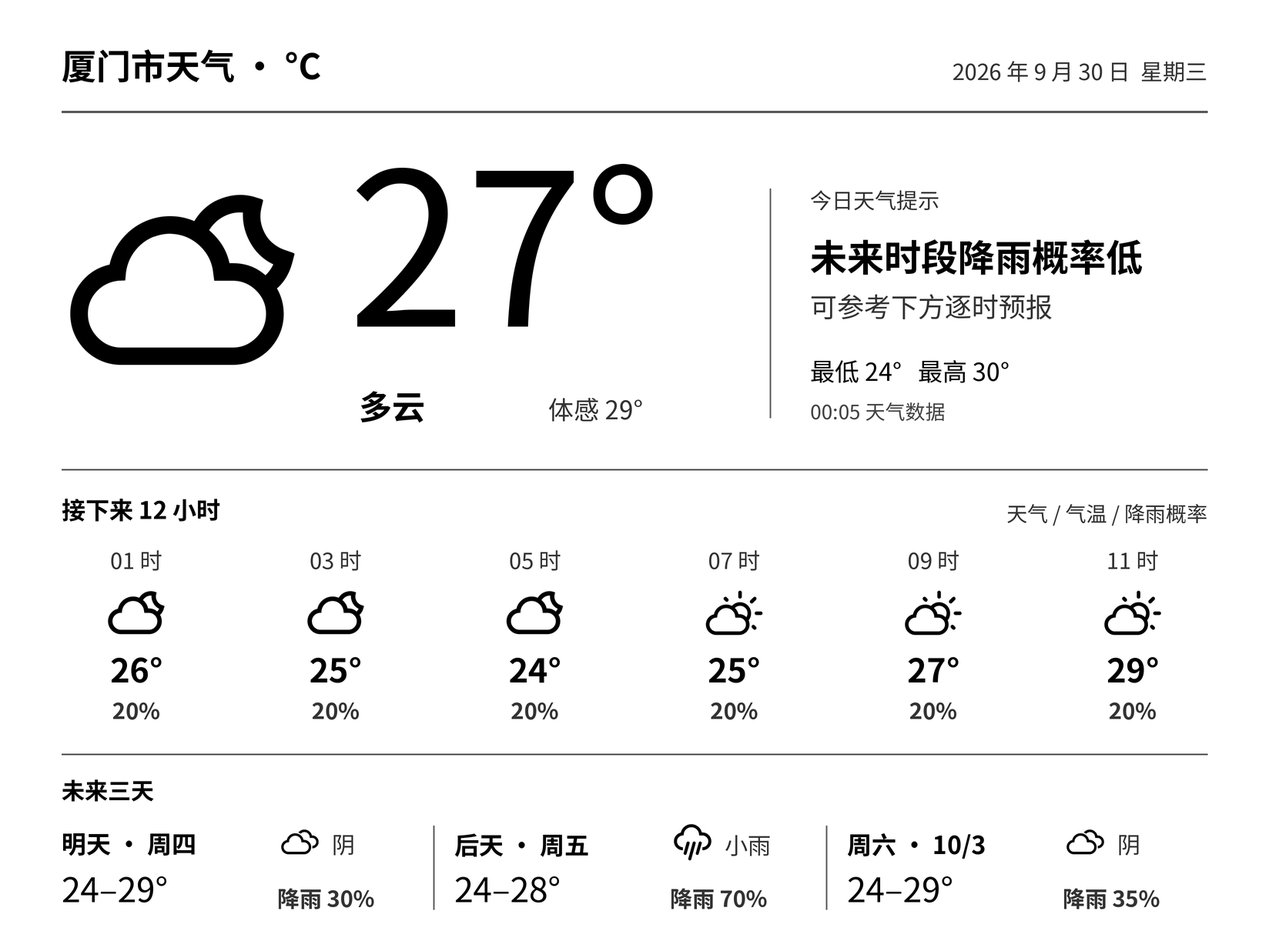
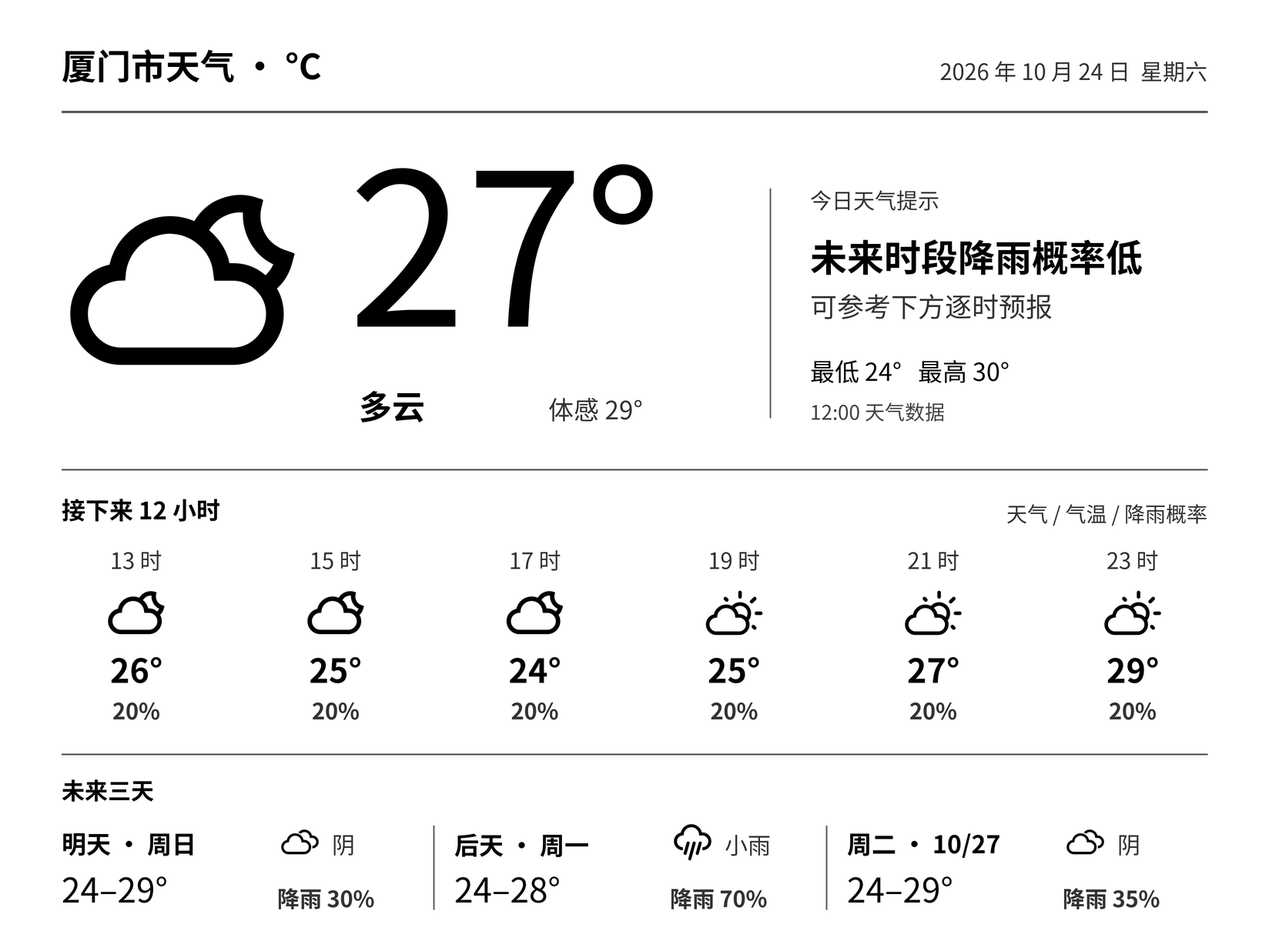
release: publish v0.3.0 with the annual garden and a refreshed gallery
Bump the server to 0.3.0; the plugin and A/B launcher stay at 1.1.0 and
their archives are byte-identical to v0.2.0. Regenerate the six-board
gallery and settings screenshot from current code, fold the unreleased
changelog entries into v0.3.0, and update install, upgrade,
compatibility, status and checklist docs.

diff --git a/tools/render_public_previews.py b/tools/render_public_previews.py
@@ -127,7 +127,7 @@ def run(now, output, images_only=False, pages=None):
             .grid{display:grid;grid-template-columns:1fr 1fr;gap:26px}figure{margin:0;padding:12px 12px 0;background:white;border:1px solid #d5dbd3;border-radius:12px;overflow:hidden}
             img{display:block;width:100%;aspect-ratio:4/3;object-fit:contain;background:white}figcaption{padding:16px 8px 18px;font-size:23px;border-top:1px solid #e9ede6}figcaption span{font-size:16px;color:#778775;margin-right:14px}
             footer{margin-top:26px;font-size:16px;color:#657263}
-            </style><main><header><div><h1>KindleGlance</h1><p>天气 · 日历 · 世界昼夜 · 年度花园</p></div><div class="version">main 源码预览</div></header><div class="grid">'''+cards+'''</div><footer>当前源码原生渲染 · 示例日期 '''+now.date().isoformat()+''' · 天气为演示数据</footer></main>'''
+            </style><main><header><div><h1>KindleGlance</h1><p>天气 · 日历 · 世界昼夜 · 年度花园</p></div><div class="version">v0.3.0 正式版</div></header><div class="grid">'''+cards+'''</div><footer>当前源码原生渲染 · 示例日期 '''+now.date().isoformat()+''' · 天气为演示数据</footer></main>'''
             gallery=Path(os.environ['DATA_DIR'])/'gallery.html';gallery.write_text(document,encoding='utf-8')
             page.set_viewport_size({'width':1600,'height':1200})
             page.goto(gallery.as_uri(),wait_until='networkidle')

diff --git a/kindle-display/app/setup_routes.py b/kindle-display/app/setup_routes.py
@@ -162,7 +162,7 @@ def install(app, g):
     @app.get("/admin/api/diagnostics")
     def diagnostics(request: Request):
         g["require_admin"](request)
-        return JSONResponse({"version": "0.2.0", "device_profile": "kpw11",
+        return JSONResponse({"version": "0.3.0", "device_profile": "kpw11",
                              "setup_state": g["board_settings"]()["setup_state"],
                              "has_device_fetch": bool((g["read_state"]() or {}).get("last_device_request")),
                              "collector_installed": bool(g["os"].getenv("CODEX_COLLECTOR_URL"))},

diff --git a/tools/build_public_release.py b/tools/build_public_release.py
@@ -25,7 +25,7 @@ def archive(path, entries):
             assert zipfile.read(name) == source.read_bytes()
 
 
-deploy = out/'kindleglance-deploy-0.2.0.zip'
+deploy = out/'kindleglance-deploy-0.3.0.zip'
 archive(deploy, [(p,p.relative_to(ROOT).as_posix()) for p in source_files()])
 plugin=ROOT/'kindle-plugin'
 entries=[(p,'koreader/plugins/trmnl.koplugin/'+p.name) for p in (plugin/'trmnl.koplugin').glob('*.lua')]

diff --git a/CHANGELOG.md b/CHANGELOG.md
@@ -1,6 +1,17 @@
 # Changelog
 
-## 未发布 — 2026-10-18 年度花园每天现画
+## v0.3.0 — 正式版（2026-10-24）
+
+- 服务端 0.3.0。插件 1.1.0 和 A/B 启动器 1.1.0 没有改动，设备包与 v0.2.0 相同，已装好的 Kindle 不用更新。
+- 新增年度花园横屏看板：随日期逐日生长，每天的图案在服务端现画。
+- 移除年度进度、时间刻度和山水长卷三个看板，服务端镜像不再安装 Chromium。现为七类内容（含可选 Codex 用量）。
+- 可选 Codex 采集器自动获取套餐和订阅周期，复用已有授权。
+- 用当前代码重新生成六种看板拼图和日常设置截图。
+- 升级时已有播放列表自动去掉移除的看板，其他设置不变；启用采集器的实例先升级看板再升级采集器。见 [升级说明](docs/UPGRADING.md)。
+
+下面是 v0.2.0 之后合入 main 的各次更新。
+
+### 2026-10-18 年度花园每天现画
 
 - 每天的图案改由服务端现画：沿用同一支笔和原有题材，每幅有自己的结构、方向、比例和轻微弯曲，一年 365 天和不同年份之间都不重复。题材配额、稀有度、季节与排版规则不变。
 - 浆果、多肉、苹果、蜗牛、小屋，以及鱼、无花果、树莓、葡萄、松树、仙人掌、小鸟、苍鹭、小虫、树桩、草莓、星星、铲子、南瓜、原木、刺猬、帐篷、蝴蝶加入结构变化；其他题材沿用原画法自带的参数变化，新增题材保留各自的 A、B 画法。
@@ -9,37 +20,37 @@
 - 画笔代码移至 `kindle-display/app/garden_drawings.py`，素材生成器改为引用它；已提交的 420 幅素材逐字节不变。
 - 修复后台预热读取地区设置的位置：4a1984d 中预热每轮报 `KeyError: 'latitude'` 后跳过，日志刷屏，12 月也不会提前画下一年；画面不受影响，未预热的图在渲染时现画并写入缓存。
 
-## 未发布 — 2026-10-16 移除年度进度、时间刻度与山水长卷
+### 2026-10-16 移除年度进度、时间刻度与山水长卷
 
 - 删除年度进度、时间刻度和山水长卷三个看板，现为七类内容（含可选 Codex 用量）。
 - 山水长卷是唯一使用 Chromium 的看板：服务端镜像不再安装 Chromium，运行依赖去掉 Playwright，渲染不再启动浏览器。Playwright 移至开发依赖，仅用于生成预览画廊。山水绘图资源及其许可证随之移除。
 - 已有播放列表升级后自动去掉这些项，其他项目、顺序和设置不变；若播放列表只剩这些项，则恢复默认播放列表。首次设置的默认选择改为简约月历、天气一览和年度花园。
 - 旧设置中残留的这些选择会被忽略，它们最后渲染的图片不再长期保留；其余画面的设备文件名不变，升级本身不会让 Kindle 多刷新一次。v0.2.0 历史拼图和渲染清单保留原样。
 
-## 未发布 — 2026-10-13 年度花园新增图案与年度配额
+### 2026-10-13 年度花园新增图案与年度配额
 
 - 新增 29 个原创题材共 54 幅图案：蒲公英、狗尾巴草、三叶草、幸运草、薰衣草、牵牛花、绣球、荷花、莲蓬、樱花枝、番茄、豌豆、柿子、葫芦、蜻蜓、兔子、松鼠、小猫、蚂蚁、鼹鼠、稻草人、鸟屋、花盆、手推车、蜂箱、风车、雨靴、雪花和枫叶。素材库共 419 幅，原有 365 幅文件不变。
 - 每年按配额抽取 365 幅：形似的小野花、雏菊、浆果、多肉、苹果和风铃草每年只取一部分并轮换；幸运草、彩虹、帆船、稻草人、小女巫为稀有图案，每年约一半概率出现。花朵占比由 40% 降至约 31%，小动物和园艺物件各升至约 11%。
 - 季节规则扩展到樱花枝、蒲公英、豌豆、荷花、莲蓬、番茄、柿子、枫叶和雪花，并对所有年份生效。2026 年在内的全部年份重新生成每日图案与位置。渲染修订升至 9。
 - 素材生成器在 Windows 与 Linux 上写出相同的 SVG 和清单字节，像素未变的 PNG 不再重写。
 
-## 未发布 — 2026-10-13 年度花园满屏排列
+### 2026-10-13 年度花园满屏排列
 
 - 全年分为 15 行，每行 24 或 25 株，多一株的行按实例和年份随机分配；每行铺满宽度，年末花园填满画面，不再只剩半行。
 - 所有年份（含 2026 年）重新排布一次，取代上一条中保留原排列的做法；同时去掉为今日短线保留的空间。每天对应的图案不变，之后逐日生长不移动已有图案。渲染修订升至 8。
 
-## 未发布 — 2026-10-13 年度花园今日展示与季节
+### 2026-10-13 年度花园今日展示与季节
 
 - 顶部以日期和星期为主，年份、年内天数、剩余天数与已过百分比合并为一行灰色小字，去掉「年度花园」标题。
 - 右上角放大展示当天新长出的图案及中文名，删除花园内的今日短线；短线原有的预留空间保留，今年已有排列不移动。渲染修订升至 7。
 - 自 2027 年起，郁金香、向日葵、南瓜、雪人等 12 种季节性题材只出现在对应月份，同一题材尽量相隔一周；南半球季节错开六个月，地区跨越南北半球时花园重新生成。2026 年及以前的顺序与位置不变。
 
-## 未发布 — 2026-10-03 年度花园轮廓优化
+### 2026-10-03 年度花园轮廓优化
 
 - 年度花园 R6 按完整图案轮廓执行无重叠排列，保护花冠内部留白、开放枝叶、未来种子及今日标记，保留至少 2 像素间隙；全年预留空间与局部微调保持大小层次和小组疏密。
 - 保留每日图案顺序、素材、手绘字体及主要灰度；未来种子按用户确认由灰度 100 收深至 80，大小不变。布局升级重新排布一次，随后逐日增长保持位置稳定。
 
-## 未发布 — 2026-10-02 源码更新
+### 2026-10-02 源码更新
 
 - 新增独立「年度花园」横屏看板：365 幅重绘图案及独立闰日素材，按本地日期生长；实例与年份决定稳定排列，日期变化不移动已有图案。
 - 花园采用图案视觉重量、实际墨迹边界和小组间距安排大小与位置，收紧顶部留白；主体灰度 0，年份和百分比 96，未来种子 176。内置 Yozai / Shantell Sans 手绘字体及 OFL 许可。
@@ -47,8 +58,6 @@
 - 年度进度删除底栏和上方日期刻度，月份点阵左移；年份、已过时间与今日标记突出显示。
 - 可选 Codex 采集器复用已有官方授权，自动读取套餐及订阅周期；额度与订阅独立刷新、退避和标注缓存。移除手工套餐与日期设置，展示快照升级为 v2，看板继续兼容 v1。
 - 补充年度花园、素材来源、自动订阅、备份升级和开发说明；公开导出与部署包包含完整素材、字体、生成器和测试。
-
-以上更新合入源码，尚未创建新的发行标签；v0.2.0 发布附件保持历史版本。
 
 ## v0.2.0 — 正式版（2026-09-30）
 

diff --git a/docs/IMPLEMENTATION_STATUS.md b/docs/IMPLEMENTATION_STATUS.md
@@ -1,20 +1,20 @@
 # 实施进度
 
-当前正式版：**v0.2.0**（2026-09-30），插件 **1.1.0**，A/B 启动器 **1.1.0**。
+当前正式版：**v0.3.0**（2026-10-24），插件 **1.1.0**，A/B 启动器 **1.1.0**。
 
-[源码](https://github.com/jijuwen/kindle-glance) · [正式版下载](https://github.com/jijuwen/kindle-glance/releases/tag/v0.2.0) · [持续集成](https://github.com/jijuwen/kindle-glance/actions)
+[源码](https://github.com/jijuwen/kindle-glance) · [正式版下载](https://github.com/jijuwen/kindle-glance/releases/tag/v0.3.0) · [持续集成](https://github.com/jijuwen/kindle-glance/actions)
 
-## main 源码后续更新（2026-10-02，未打新标签）
+## v0.3.0 正式发布记录
 
-- 新增年度花园横屏看板，365 幅重绘 SVG / PNG、独立闰日图案及 OFL 手绘字体随项目分发；按当地日期生长，实例种子固定全年排列。
-- 花园布局按实际墨迹边界和视觉重量安排大小，小组之间留白；主线宽基准 3.7，未来种子灰度 176，年份与百分比作为次要信息。
-- 管理端横屏预览恢复直立方向；年度进度去除底栏、日期刻度，主体点阵左移。
-- 2026-10-16 移除年度进度、时间刻度和山水长卷三个看板，服务端镜像不再安装 Chromium；已有播放列表升级后自动去掉这些项。
-- 2026-10-18 年度花园改为每天在服务端现画，题材与排版规则不变，灰度受检查约束；当年图案在后台分批预热并缓存。
+- 新增年度花园横屏看板：以 419 幅手绘图案为底稿，另有闰日素材，OFL 手绘字体随项目分发。按当地日期生长，实例种子固定全年排列；每年按配额、稀有度和季节安排题材。
+- 每天的图案由服务端用同一支笔现画，须通过灰度、墨量和长宽比检查；当年图案在后台分批预热并缓存。
+- 移除年度进度、时间刻度和山水长卷三个看板，服务端镜像不再安装 Chromium；已有播放列表升级后自动去掉这些项。
+- 管理端横屏预览直立显示。
 - Codex 套餐及订阅周期自动获取，保留原授权；快照 v2 与 v1 兼容，额度和订阅分别刷新、标注缓存及待更新。
-- 补齐使用、素材来源、开发与备份升级文档，新增不读取私人状态的花园示例；公开清单包含生成器和全部素材。说明见 [年度花园](ANNUAL_GARDEN.md) 及 [更新记录](../CHANGELOG.md)。
+- 补齐花园使用、素材来源、开发与备份升级文档；六种看板拼图和日常设置截图由当前代码重新生成。说明见 [年度花园](ANNUAL_GARDEN.md) 及 [更新记录](../CHANGELOG.md)。
+- 插件和 A/B 启动器没有改动，设备包与 v0.2.0 相同。
 
-本次本地验证：111 项服务端测试、14 项采集器测试、六组 Lua 回归、前端导航和 JavaScript 语法检查通过；公开文件及文档链接检查、密钥扫描和三个归档构建通过。Linux 安装、真实 TLS 及恢复结果以本次源码提交的 CI 为准。以下 93 项记录属于 v0.2.0 正式发布时的验证。
+本地验证：114 项服务端测试、14 项采集器测试、六组 Lua 回归和前端导航通过；公开文件检查和三个归档构建通过。Linux 安装、真实 TLS 及恢复结果以发布提交的 CI 为准。本版没有新的设备端实测。
 
 ## v0.2.0 正式发布记录
 
@@ -27,7 +27,7 @@
 - 八张示例由当前代码重新生成，新增拼图、当前日常设置截图及可复现脚本。天气使用演示数据，不公开私人账号、域名或设备码。
 - 海外 VPS 已部署运行，旧 VPS 看板与采集器已停止。公开仓库不包含个人运维资料、授权、运行数据或日志。
 
-## 验证与交付
+## v0.2.0 验证与交付
 
 93 项服务端测试通过，覆盖配置迁移、缓存、认证、城市搜索、设备码轮换、后台预览和日常设置。另验证采集器、六组 Lua、前端导航及 JavaScript 语法；Linux CI 执行真实 LuaSec TLS、全新安装、九类画面、重启及完整卷恢复。结果以正式发布提交的 [CI](https://github.com/jijuwen/kindle-glance/actions) 为准。
 

diff --git a/previews/README.md b/previews/README.md
@@ -1,8 +1,8 @@
 # 看板示例
 
-下方拼图保留正式版 v0.2.0 的八种看板（其中年度进度、时间刻度和山水长卷已在之后的 main 中移除），示例日期为 2026-09-30，地区为厦门市，时区为 Asia/Shanghai。天气使用固定演示数据，不是实时预报；图片为原生渲染，不是真机实拍。不发布个人账号用量截图。
+下方拼图为正式版 v0.3.0 的六种看板，示例日期为 2026-10-24 12:00，地区为厦门市，时区为 Asia/Shanghai。天气使用固定演示数据，不是实时预报；图片为原生渲染，不是真机实拍。不发布个人账号用量截图。
 
-![八种看板组合展示](showcase.png)
+![六种看板组合展示](showcase.png)
 
 | 看板 | 原图 |
 |---|---|
@@ -10,23 +10,25 @@
 | 天气一览 | [weather-glance.png](weather-glance.png) |
 | 简约月历 | [simple-calendar.png](simple-calendar.png) |
 | 逐时天气 | [hourly-weather.png](hourly-weather.png) |
-| 年度花园（2026-10-18 每天现画） | [annual-garden.png](annual-garden.png) |
+| 年度花园 | [annual-garden.png](annual-garden.png) |
 | 每日概览 | [daily-overview.png](daily-overview.png) |
 
-年度花园于 2026-10-18 更新为 R10：每天的图案在服务端用同一支笔现画，同题材细看各不相同，灰度与比例受检查约束；顶部以日期为主，右上角展示今日图案，每行 24 或 25 株铺满画面，题材按年度配额与季节安排，种子灰度 80。原生横屏 1648×1236；花园使用固定公开示例种子，与私人安装实例无关。最新花园参数见 [selected-render-manifest.json](selected-render-manifest.json)。上方历史拼图不包含年度花园。
+年度花园为 R10：每天的图案在服务端用同一支笔现画，同题材细看各不相同，灰度与比例受检查约束；顶部以日期为主，右上角展示今日图案，每行 24 或 25 株铺满画面，题材按年度配额与季节安排，种子灰度 80。原生横屏 1648×1236；花园使用固定公开示例种子，与私人安装实例无关。生成参数见 [render-manifest.json](render-manifest.json)。
 
-`setup-desktop.png` 来自 v0.2.0 隔离测试实例的日常设置，使用保留示例域名，没有显示设备码或账号资料。
+`setup-desktop.png` 来自 v0.3.0 隔离测试实例的日常设置，使用保留示例域名，没有显示设备码或账号资料。
 
 安装开发依赖、中文字体与 Chromium 后，在项目根目录运行：
 
 ```sh
-python tools/render_public_previews.py --at 2026-09-30T00:05:00+08:00
+python tools/render_public_previews.py --at 2026-10-24T12:00:00+08:00
 ```
 
-当前脚本使用临时数据目录、当前渲染函数与真实管理页面生成六种公开看板（另有可选 Codex 用量页），以 HTML 网格组合原图。运行会更新完整画廊和 [render-manifest.json](render-manifest.json)；仓库现有完整清单仍对应 v0.2.0 的历史生成结果。Windows 可用 FONT_PATH、FONT_BOLD_PATH 指定中文字体。
+脚本使用临时数据目录、当前渲染函数与真实管理页面生成六种公开看板（另有可选 Codex 用量页），以 HTML 网格组合原图，并更新完整画廊和 [render-manifest.json](render-manifest.json)。Windows 可用 FONT_PATH、FONT_BOLD_PATH 指定中文字体。
 
-只重现当前年度花园示例、不启动管理端或拼图浏览器：
+只重现年度花园示例、不启动管理端或拼图浏览器：
 
 ```sh
-python tools/render_public_previews.py --at 2026-10-18T12:00:00+08:00 --images-only --pages annual-garden
+python tools/render_public_previews.py --at 2026-10-24T12:00:00+08:00 --images-only --pages annual-garden
 ```
+
+这会另写一份 `selected-render-manifest.json`，不改动完整画廊的清单。

diff --git a/docs/RELEASE_CHECKLIST.md b/docs/RELEASE_CHECKLIST.md
@@ -1,18 +1,13 @@
-# v0.2.0 正式发布检查
+# v0.3.0 正式发布检查
 
-服务端 0.2.0、插件 1.1.0、A/B 启动器 1.1.0。发行状态与设备验证范围分别记录。
+服务端 0.3.0、插件 1.1.0、A/B 启动器 1.1.0。发行状态与设备验证范围分别记录。v0.2.0 的检查清单见该标签下的同名文件。
 
-- [x] 保留 trmnl.koplugin 与 A/B 两种 KUAL 启动路径。
-- [x] 私有历史留在本地，公开内容使用显式文件清单。
-- [x] 新安装无默认城市；独立密钥、一次性码和管理员密码哈希。
-- [x] 配置修订、迁移、时区、偏好及损坏保护。
-- [x] 管理密码与六位设备码分开；后台预览与独立日常设置。
-- [x] 基础部署与可选采集器分开，展示卷和凭据卷隔离。
-- [x] 许可、安装、升级、备份恢复与兼容文档更新。
-- [x] 93 项服务端测试及城市搜索、设备码线上验证。
-- [x] 采集器、Lua、前端导航与 JavaScript 检查。
-- [x] Linux CI：空卷安装、中文渲染、取图、重启和完整备份恢复，LuaSec TLS 与 Codex CLI 协议检查。
-- [x] 当前代码八张看板示例、组合图和日常设置截图，无私人信息。
+- [x] 插件和 A/B 启动器自 v0.2.0 起没有改动，设备包与 v0.2.0 附件逐字节相同。
+- [x] 年度进度、时间刻度和山水长卷已移除，已有播放列表自动迁移；服务端镜像不再安装 Chromium。
+- [x] 年度花园素材、字体许可和生成器在公开清单与部署包中。
+- [x] 114 项服务端测试、14 项采集器测试、六组 Lua 与前端导航检查。
+- [x] Linux CI：空卷安装、七类页面渲染、取图、重启和完整备份恢复，LuaSec TLS 与 Codex CLI 协议检查。
+- [x] 当前代码六种看板示例、组合图和日常设置截图，无私人信息。
 - [x] 正式版本号、归档逐文件核对与三个 ZIP 的 SHA256SUMS。
 
 仍需现场长期验证：完整 A/B、方向、退出恢复、RTC 和断网矩阵，12/24 小时深睡与功耗，真实生产副本回退演练。这些项目未记作通过，详见 [兼容范围](COMPATIBILITY.md) 和 [进度](IMPLEMENTATION_STATUS.md)。

diff --git a/README.md b/README.md
@@ -2,11 +2,11 @@
 
 把闲置 Kindle 变成天气、日历和生活进度看板。服务端生成灰阶图片，KOReader 插件负责定时取图与省电显示。
 
-**正式版 [v0.2.0](https://github.com/jijuwen/kindle-glance/releases/tag/v0.2.0) 已发布。** 支持地区与时区配置、首次设置和独立日常管理；设备基线为 KPW11 / KOReader v2026.07.1。安装前请阅读 [兼容范围](docs/COMPATIBILITY.md)。
+**正式版 [v0.3.0](https://github.com/jijuwen/kindle-glance/releases/tag/v0.3.0) 已发布。** 支持地区与时区配置、首次设置和独立日常管理；设备基线为 KPW11 / KOReader v2026.07.1。安装前请阅读 [兼容范围](docs/COMPATIBILITY.md)。
 
-![KindleGlance v0.2.0 八种看板拼图](previews/showcase.png)
+![KindleGlance v0.3.0 六种看板拼图](previews/showcase.png)
 
-上图为 v0.2.0 的八种看板，示例日期为 2026-09-30，天气为演示数据。当前 main 分支另包含年度花园、自动订阅信息及预览改进，并已移除图中的年度进度、时间刻度和山水长卷，详见 [更新记录](CHANGELOG.md)；这些源码更新尚未打新的发行标签。
+上图为 v0.3.0 的六种看板（另有可选 Codex 用量），示例日期为 2026-10-24，天气为演示数据。与 v0.2.0 相比，新增年度花园和自动订阅信息，移除了年度进度、时间刻度和山水长卷，详见 [更新记录](CHANGELOG.md)。
 
 ![年度花园横屏原生渲染](previews/annual-garden.png)
 

diff --git a/docs/UPGRADING.md b/docs/UPGRADING.md
@@ -8,6 +8,8 @@
 
 自动订阅更新使用展示快照 v2，看板继续兼容 v1；启用采集器的实例应先升级看板再升级采集器。保留原采集器授权目录，不需要重新授权。年度花园不会自动改变原播放列表，需在管理端主动添加；保留实例种子文件可保持同一年的排列。
 
+从 v0.2.0 升级到 v0.3.0 时，播放列表里的年度进度、时间刻度和山水长卷会自动去掉，其他项目、顺序和设置不变；若列表只剩这些项，则恢复默认播放列表。新镜像不再包含 Chromium。首次运行后，服务端在后台分批画出当年的花园图案，写入 `annual-garden-hands/`。插件和 A/B 启动器没有改动，Kindle 端不需要更新。
+
 回退应恢复**旧镜像和升级前完整数据副本**，不要仅更换镜像。新配置、密码或令牌变更不能假定被旧版识别；回退后使用备份对应的凭据。首次公开版的实际生产副本升级/回退尚待现场验收。
 
 插件升级完整覆盖发布包中的 Lua 文件，保留设置和电源恢复记录。目录继续为 `trmnl.koplugin`，避免两个插件同时加载。A/B 菜单目录保持 `extensions/kindle-board-ab`，仅调整用户可见名称。

diff --git a/docs/DEVELOPMENT.md b/docs/DEVELOPMENT.md
@@ -51,7 +51,7 @@ node kindle-display/test_admin_navigation.cjs
 
 ## Git 和版本边界
 
-- 公开仓库主分支为 `main`，当前正式标签为 `v0.2.0`，组件版本与未发布源码更新见 [CHANGELOG](../CHANGELOG.md)。早期本地 `v1.0.2` 不属于公开仓库的统一发行版。
+- 公开仓库主分支为 `main`，当前正式标签为 `v0.3.0`，组件版本与未发布源码更新见 [CHANGELOG](../CHANGELOG.md)。早期本地 `v1.0.2` 不属于公开仓库的统一发行版。
 - 提交源码、依赖声明、测试、夹具及许可证、构建脚本和当前文档。
 - 排除 `.venv/`、`.local/`、`.cloudflare/`、`backups/`、`dist/`、缓存、日志、设备数据和机器配置；`.env.example` 保留可提交。公开导出以 `tools/public_files.py` 为准，不复制私人 Git 历史或运维档案。
 - 自有文本默认 LF；上游资源、许可证、测试夹具及已有服务端静态文件保留原字节，以便核对部署基线。插件清单记录换行标准化后的 1.0.2 文件哈希。旧版及第三方源码原有行尾空格保留，避免为了格式检查改写基线。

diff --git a/docs/COMPATIBILITY.md b/docs/COMPATIBILITY.md
@@ -1,6 +1,6 @@
 # 兼容与验证范围
 
-当前正式版：服务端 0.2.0，插件 1.1.0，A/B 启动器 1.1.0。
+当前正式版：服务端 0.3.0，插件 1.1.0，A/B 启动器 1.1.0。
 
 | 组合 / 功能 | 验证范围 |
 |---|---|
@@ -10,7 +10,7 @@
 | A/B 启动 | A 普通模式，B 官方 no-framework 参数；进入 KOReader 后均需手动开始看板 |
 | 12/24 小时 RTC、深睡与续航 | 尚未完成完整长期实测 |
 | 其他 Kindle / KOReader 版本 | 未验证 |
-| Linux Docker、非 root 卷、中文渲染 | CI 安装、九类页面、重启与完整卷备份恢复 |
+| Linux Docker、非 root 卷、中文渲染 | CI 安装、七类页面、重启与完整卷备份恢复 |
 | VPS 运行与迁移 | 已部署运行并验证接口；真实生产副本回退演练尚未完整记录 |
 
 首版支持中文、单管理员、一个全局地点、单播放列表和固定 1236×1648 传输画布。正式发布不扩大上述支持范围。

diff --git a/docs/OPEN_SOURCE_PLAN.md b/docs/OPEN_SOURCE_PLAN.md
@@ -1,6 +1,6 @@
 # KindleGlance · Kindle 看板：开源改造规划
 
-状态：M0–M4 已交付，当前发布为正式版 v0.2.0；实施结果和设备验证范围以 IMPLEMENTATION_STATUS.md 为准。审视基线：本地 `main` 的 `4c5d4bb`；2026-09-27（北京时间）。
+状态：M0–M4 已交付，当前发布为正式版 v0.3.0；实施结果和设备验证范围以 IMPLEMENTATION_STATUS.md 为准。审视基线：本地 `main` 的 `4c5d4bb`；2026-09-27（北京时间）。
 
 目标：让一个没有作者现场配置、没有作者账号和服务器权限的人，从公开仓库独立部署，在管理页面完成首次设置，并把自己的 Kindle 连接成可长期使用的信息看板。
 
